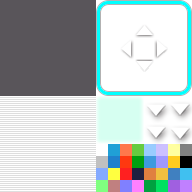
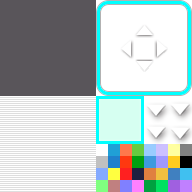
Mouse and keyboard cursor tweaks

Changed region(s): [[0.5, 0.5, 0.75, 0.75]]

diff --git a/js/plugins/MacThings.js b/js/plugins/MacThings.js
@@ -1163,7 +1163,7 @@ Scene_Title.prototype.start = function () {
 })();
 
 //Custom cursor graphic
-document.body.style.cursor = `url("img/pictures/cursorBright.png") 4 5, auto`;
+document.body.style.cursor = `url("img/pictures/cursorBlue.png") 4 5, auto`;
 
 //Adding unpressed key support
 /**
